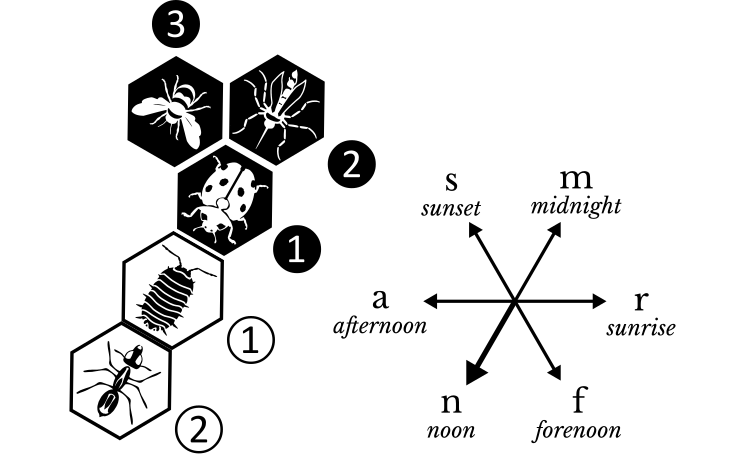
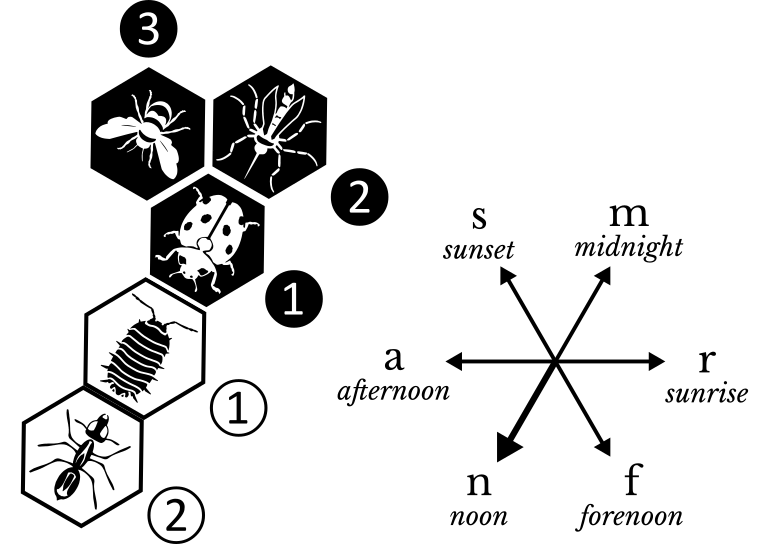
added support for definable width images

diff --git a/assets/css/langley.css b/assets/css/langley.css
@@ -102,8 +102,7 @@
   --box-shadow-4: 0 1.6px 3.6px 0 rgba(0, 0, 0, 0.132), 0 0.3px 0.9px 0 rgba(0, 0, 0, 0.108); /* from ms-depth-4 */
   --box-shadow-8: 0 3.2px 7.2px 0 rgba(0, 0, 0, 0.132), 0 0.6px 1.8px 0 rgba(0, 0, 0, 0.108); ; /* from ms-depth-8 */
   --border: 1px solid var(--neutralTertiary);
-  --float-width: 40%;
-
+  --float-width: 226px;
   --transition: 0.467s cubic-bezier(0.1,0.9,0.2,1);
 }
 
@@ -562,14 +561,29 @@ li {
 /* Figures */
 
 figure, audio {
-  margin: 1rem 0;
+  margin: 1rem auto;
+}
+
+audio {
   width: 100%;
 }
 
+figure {
+  display: table;
+  text-align: center;
+  width: auto;
+}
+
 figure > img {
-  width: 100%;
-  height: 100%;
   object-fit: contain;
+}
+
+.float > img {
+  width: calc( 1.1 * var(--float-width) );
+}
+
+img {
+  width: 100%;
 }
 
 figcaption, .source {
@@ -581,6 +595,13 @@ figcaption, .source {
 figcaption {
   font-size: calc(var(--sans-ratio) * var(--size-m));
   text-align: center;
+}
+
+@media (min-width: 576px) {
+  .float figcaption {
+    display: table-caption;
+    caption-side: bottom;
+  }
 }
 
 figcaption small {
@@ -595,19 +616,35 @@ figcaption small {
   color: var(--neutralPrimary);
 }
 
+@media (max-width: 575px) {
+  .w10 { max-width: 10rem; }
+  .w15 { max-width: 15rem; }
+  .w18 { max-width: 18rem; }
+  .w20 { max-width: 20rem; }
+  .w25 { max-width: 25rem; }
+  .w30 { max-width: 30rem; }
+}
+
 @media (min-width: 576px) {
   .source {
     margin-right: 1em;
   }
   .float, aside.pullquote {
     float: right;
+    width: fit-content;
     margin: 1em;
     margin-right: 0;
-    width: var(--float-width);
     line-height: var(--leading-tight);
   }
   aside.pullquote {
     padding: 0;
+    width: var(--float-width);
+  }
+  .float > img {
+    width: var(--float-width);
+  }
+  .float.edge img {
+    width: calc( var(--float-width) + var(--margin) );
   }
   .edge {
     position: relative;
@@ -620,6 +657,12 @@ figcaption small {
     text-align: right;
     padding-right: var(--margin);
   }
+  .w10 { width: 10rem !important; }
+  .w15 { width: 15rem !important; }
+  .w18 { width: 18rem !important; }
+  .w20 { width: 20rem !important; }
+  .w25 { width: 25rem !important; }
+  .w30 { width: 30rem !important; }
 }
 
 article {

diff --git a/_notes/direction-based-notation-for-hive.md b/_notes/direction-based-notation-for-hive.md
@@ -44,7 +44,7 @@ Turns are numbered separately for each player. A passed turn is counted as a tur
 
 The playing pieces of both colors are notated using capital letters as follows:
 
-![notation of hive pieces](../img/hive-pieces.png)
+![notation of hive pieces](../img/hive-pieces.png){: .w15}
 {: .float}
 
 -   **Q**: Queen Bee
@@ -79,7 +79,7 @@ The first turn by the two players determines noon and midnight directions as fol
 
 The remaining directions are assigned when either player places or moves a piece to a space that is not in the noon or midnight direction from other pieces in the Hive. The clockwise or anticlockwise order of direction is selected so that the new space will be in the afternoon or sunset direction from all the other pieces.
 
-![Establishing directions](../img/hive-est-directions.png)
+![Establishing directions](../img/hive-est-directions.png){:.w25}
 First player opened with Ladybug, and when the second player placed the Pillbug, she established the noon and midnight directions. The Queen Bee was the first to be placed in a different direction. This established the remaining directions so that the new space would be in afternoon/sunset direction from other pieces.
 
 Once the directions are established, they stay fixed for the rest of the game, even if the first two pieces were to move.
@@ -108,7 +108,7 @@ Piece Notation identifies a specific piece as follows:
 
 When it is necessary to order or number several pieces, the counting goes from pieces that are located farthest in the noon direction to those in the midnight direction and — if two or more pieces are equally distant — the counting between them goes from forenoon to sunset.
 
-![counting pieces](../img/hive-counting.png)
+![counting pieces](../img/hive-counting.png){:.w30}
 The chart on the left illustrates the general order of counting. The right example shows how the three Soldier Ants would be numbered in this position.
 
 ## Direct Destination
@@ -137,7 +137,7 @@ To determine the reference piece from the pieces next to the destination, choose
 ## Special Moves
 
 -   **First Turn:** First placement by each player is notated using only the abbreviation of that piece.
--   **Placements:** When the moved piece is a new piece being placed in the Hive, insert a **+** (plus sign) between the moved piece and the destination notation. If the **+** is followed by **×**, the two symbols are replaced with a __✳__ (an eight-spoked star, or asterisk __\*__).
+-   **Placements:** When the moved piece is a new piece being placed in the Hive, insert a **+** (plus sign) between the moved piece and the destination notation. If the **+** is followed by **×**, the two symbols are replaced with a __✳&#xFE0E;__ (an eight-spoked star, or asterisk __\*__).
 -   **Passed Turn:** Passed turn is notated as “**---**” (m-dash, or two hyphens `--`)
 
 ## Canonical Notation
@@ -152,12 +152,12 @@ In non-canonical notation, it is possible to leave out some parts of the notatio
 
 ## Game 1
 
-The following game was transcribed from [2019 Brilliancy Award Game Two](https://www.youtube.com/watch?v=pzMFFKD4eVc) on YouTube. (The game is diagrammed with Northern hemisphere directions, noon pointing up, and black pieces moving first.)
+The following game was transcribed from [2019 Brilliancy Award Game Two](https://www.youtube.com/watch?v=pzMFFKD4eVc "Link to YouTube video of the game") on YouTube. (The game is diagrammed with Northern hemisphere directions, noon pointing up, and black pieces moving first.)
 
->> Player 1: Frank Chen  
->> Player 2: Joe Schultz  
->> Date: September 8, 2019  
->> Tournament: 2019 BoardSpace.net Online World Championship
+>> Player 1: **Frank Chen**  
+>> Player 2: **Joe Schultz**  
+>> Date: **September 8, 2019**  
+>> Tournament: **2019 BoardSpace.net Online World Championship**
 
 | Move | Player 1 | Player 2 |
 | ----:| -------- | -------- |
@@ -165,22 +165,22 @@ The following game was transcribed from [2019 Brilliancy Award Game Two](https:/
 |   2. | M+Lm     | A+Pn     |
 |   3. | Q+Ls     | Q+Pa     |
 |   4. | P+Qa     |          |
-{: style="float:left;"}
 
-![diagram](../img/hive-1.png){: style="float:right;width: 13rem;"}
+![diagram](../img/hive-1.png){:.w10}
+{:.float}
 
 The diagram shows the position after the first player’s fourth turn.
 {: style="clear:both;"}
 
 | Move | Player 1 | Player 2 |
 | ----:| -------- | -------- |
-|   4. |          | AxMm     |
+|   4. |          | A×Mm     |
 |   5. | A+Pa     | A+Qa     |
 |   6. | A×A1a    | M+Qf     |
 |   7. | B+Lr     | A+Mr     |
-{: style="float:left;"}
 
-![diagram](../img/hive-2.png){: style="float: right; width: 16rem;"}
+![diagram](../img/hive-2.png)
+{:.float}
 
 Shaded pieces indicate transition moves that occurred within the numbered sequence.
 {: style="clear:both;"}
@@ -190,24 +190,22 @@ Shaded pieces indicate transition moves that occurred within the numbered sequen
 |   8. | Ba       | MQs      |
 |   9. | Qs       | A2×Qs    |
 |  10. | Bn       | B+A2m    |
-{: style="float:left"}
 
-![](../img/hive-3.png){: style="float: right; width: 17rem;"}
+![](../img/hive-3.png){:.w15}
+{:.float}
 
-<br/>
-{: style="clear:both;"}
+<br/>{: style="clear:both;"}
 
 | Move | Player 1 | Player 2 |
 | ----:| -------- | -------- |
 |  11. | A+Lr     | Bf       |
 |  12. | A2×Qn    | Bn       |
-|  13. | Ba       | G\*Qm    |
-{: style="float:left"}
+|  13. | Ba       | G✳&#xFE0E;Qm    |
 
-![diagram](../img/hive-4.png){: style="float: right; width: 16rem;"}
+![diagram](../img/hive-4.png){:.w15}
+{:.float}
 
-<br/>
-{: style="clear:both;"}
+<br/>{: style="clear:both;"}
 
 | Move | Player 1 | Player 2 |
 | ----:| -------- | -------- |
@@ -215,32 +213,30 @@ Shaded pieces indicate transition moves that occurred within the numbered sequen
 |  15. | A1×A2m   | S+Pf     |
 |  16. | A2×A3m   | S+A2a    |
 |  17. | S+A2r    | B+S2n    |
-{: style="float:left"}
 
-![diagram](../img/hive-5.png){: style="float: right; width: 19rem;"}
+![diagram](../img/hive-5.png){:.w18}
+{:.float}
 
-<br/>
-{: style="clear:both;"}
+<br/>{: style="clear:both;"}
 
 | Move | Player 1 | Player 2 |
 | ----:| -------- | -------- |
 |  18. | A1×B1a   | Gm       |
 |  19. | A2×A1a   | L+S2m    |
-{: style="float:left"}
 
-![diagram](../img/hive-6.png){: style="float: right; width: 19rem;"}
+![diagram](../img/hive-6.png){:.w18}
+{:.float}
 
-<br/>
-{: style="clear:both;"}
+<br/>{: style="clear:both;"}
 
 | Move | Player 1 | Player 2 |
 | ----:| -------- | -------- |
 |  20. | A2×Qn    | G+S1n    |
 |  21. | G+A3m    | L×Qf     | 
 |  22. | ×Mr      |          |
-{: style="float:left"}
 
-![diagram](../img/hive-7.png){: style="float: right; width: 19rem;"}
+![diagram](../img/hive-7.png){:.w18}
+{:.float}
 
 Numbers above 20 in the diagram omit the first digit: ① means 21; ② means 22.
 {: style="clear:both;"}
@@ -251,7 +247,10 @@ Numbers above 20 in the diagram omit the first digit: ① means 21; ② means 22
 |  23. | L×Qf     | Pr       |
 |  24. | A1×B2a   | G1m      | 
 
-![diagram](../img/hive-8.png){: style="max-width: 23rem;"}
+![diagram](../img/hive-8.png){:.w20}
+{:.float}
+
+<br/>{: style="clear:both;"}
 
 | Move | Player 1 | Player 2 |
 | ----:| -------- | -------- |
@@ -259,7 +258,10 @@ Numbers above 20 in the diagram omit the first digit: ① means 21; ② means 22
 |  26. | Bm       | G1s      |
 |  27. | Bs       | ×LPs     |
 
-![diagram](../img/hive-9.png){: style="max-width: 23rem;"}
+![diagram](../img/hive-9.png){:.w20}
+{:.float}
+
+<br/>{: style="clear:both;"}
 
 | Move | Player 1 | Player 2 |
 | ----:| -------- | -------- |
@@ -267,42 +269,42 @@ Numbers above 20 in the diagram omit the first digit: ① means 21; ② means 22
 
 ## Second Example
 
-This example was transcribed from [2019 Brilliancy Award Game One](https://www.youtube.com/watch?v=-g3kqdYoaNE) on YouTube.
+This example was transcribed from [2019 Brilliancy Award Game One](https://www.youtube.com/watch?v=-g3kqdYoaNE "Link to YouTube video of the game") on YouTube.
 
->> Player 1: Povilas Simonis  
->> Player 2: Christian Galeas  
->> Date: May 12, 2019  
->> Tournament: 2019 BoardSpace.net Online World Championship
+>> Player 1: **Povilas Simonis**  
+>> Player 2: **Christian Galeas**  
+>> Date: **May 12, 2019**  
+>> Tournament: **2019 BoardSpace.net Online World Championship**
  
-```
- 1. L       L  
- 2. A+Lm    M+Ln  
- 3. M+As    Q+Mr  
- 4. Q+Lr    A+Ms  
- 5. MxQr    AxAs  
- 6. B+Mf    P+Qn  
- 7. Bs      A+Pa  
- 8. P+Qr    A+Ms  
- 9. A+Pf    A2xA1f  
-10. Ba      Mr  
-11. B+Qf    B+Qa  
-12. Mn      Bm  
-13. S+Mf    S+Pn  
-14. SxQr    xMQa  
-15. Bn      Bn  
-16. A+Pr    A1xA3m  
-17. G+Qm    SxBf  
-18. Ba      B+Pa  
-19. Bn      B1r  
-20. QPm     A3f  
-21. G+Pn    LB2a  
-22. G+Lr    B2r  
-23. G3n     B2m  
-24. G1a     B2s  
-25. S+Qa    Mr  
-26. G3f     Mm  
-27. Bf**
-```
+| Move | Player 1 | Player 2 |
+| ----:| -------- | -------- |
+|   1. | L        | L        |
+|   2. | A+Lm     | M+Ln     |
+|   3. | M+As     | Q+Mr     |
+|   4. | Q+Lr     | A+Ms     |
+|   5. | M×Qr     | A×As     |
+|   6. | B+Mf     | P+Qn     |
+|   7. | Bs       | A+Pa     |
+|   8. | P+Qr     | A+Ms     |
+|   9. | A+Pf     | A2×A1f   |
+|  10. | Ba       | Mr       |
+|  11. | B+Qf     | B+Qa     |
+|  12. | Mn       | Bm       |
+|  13. | S+Mf     | S+Pn     |
+|  14. | S×Qr     | ×MQa     |
+|  15. | Bn       | Bn       |
+|  16. | A+Pr     | A1×A3m   |
+|  17. | G+Qm     | S×Bf     |
+|  18. | Ba       | B+Pa     |
+|  19. | Bn       | B1r      |
+|  20. | QPm      | A3f      |
+|  21. | G+Pn     | LB2a     |
+|  22. | G+Lr     | B2r      |
+|  23. | G3n      | B2m      |
+|  24. | G1a      | B2s      |
+|  25. | S+Qa     | Mr       |
+|  26. | G3f      | Mm       |
+|  27. | Bf       |          |
 
 * * *
 

diff --git a/_notes/keyboards-and-their-resistance-to-innovation.md b/_notes/keyboards-and-their-resistance-to-innovation.md
@@ -3,7 +3,7 @@ title: Keyboards and Their Remarkable Resistance to Innovation
 slug: keyboards-and-their-resistance-to-innovation
 image: macbook-air.jpg
 tags: [keyboard, history, QWERTY, Dvorak, typewriter, ergonomics, digital]
-caption: (Image by Apple)
+caption: <small>(Image by Apple)</small>
 series: [technology, life]
 date: 2022-01-29
 started: 2010-05-09

diff --git a/_notes/what-makes-a-schattenjaeger.md b/_notes/what-makes-a-schattenjaeger.md
@@ -7,7 +7,7 @@ summary: |
 series: entertainment
 ---
 
-![A drawing of Gabriel Knight, the protagonist of the series](../img/gabrielknight.png)
+![A drawing of Gabriel Knight, the protagonist of the series](../img/gabrielknight.png){:.w15}
 A portrait of Gabriel Knight, the protagonist of the series
 {: .float}
 
